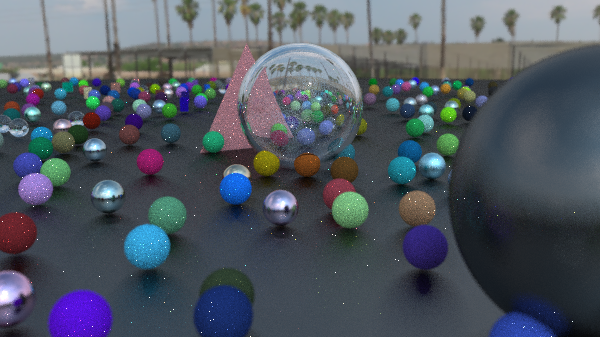
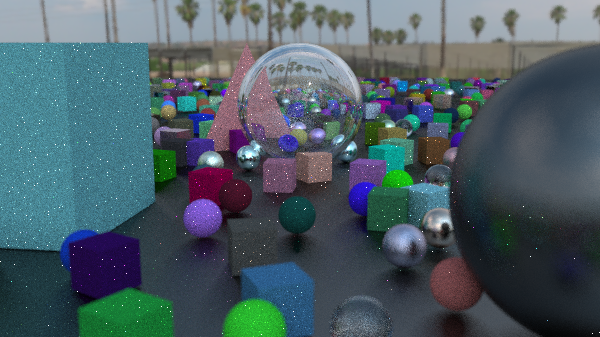
bvh_update

diff --git a/cube.hpp b/cube.hpp
@@ -6,31 +6,44 @@
 //class cube
 class cube : public hittable {
 public:
-	//constructor using min and max corners in world space (3 args)
+	//1. constructor using min and max corners in world space (3 args)
 	//converts boundaries to half extents
 	cube(const point3& min_corner_world, const point3& max_corner_world,
 		shared_ptr<material> mat)
 		: mat(mat)
+		, min_p(min_corner_world)
+		, max_p(max_corner_world)
 	{
 		//calculate half extents from min and max corners
 		half_extents = 0.5 * (max_corner_world - min_corner_world);
+		center = min_corner_world + half_extents; //calculate center position
 	}
 
-	//constructor using center position and fixed size (2 args)
+	//2. constructor using center position and fixed size (2 args)
 	//uses to define cube with constant size centered at given position(e.g., side length 2.0) and half extents = 1,1,1)
 	cube(const point3& center_pos, shared_ptr<material> mat)
 		: mat(mat)
+		, center(center_pos)
 	{
 		//set constant size (e.g., half-size 1.0 in each axis)
 		half_extents = vec3(1.0, 1.0, 1.0);
+		min_p = center_pos - half_extents; //calculate min corner
+		max_p = center_pos + half_extents; //calculate max corner
 	}
 
 	aabb bounding_box() const override {
-		return aabb(min_p, max_p);
+		double delta = 0.0001;
+		return aabb(
+			interval(min_p.x(), max_p.x()).expand(delta),
+			interval(min_p.y(), max_p.y()).expand(delta),
+			interval(min_p.z(), max_p.z()).expand(delta)
+		);
 	}
 
 	//cube
 	virtual bool hit(const ray& r, interval ray_t, hit_record& rec) const override {
+		point3 relative_origin = r.origin() - center; //translate ray origin to cube local space
+
 		double tmin = ray_t.min;
 		double tmax = ray_t.max;
 
@@ -61,7 +74,7 @@ public:
 		rec.p = r.at(rec.t);
 
 		//updated compute normal function
-		rec.normal = compute_normal(rec.p);
+		rec.normal = compute_normal(rec.p - center);
 
 		rec.mat = mat; //assign cube material
 		rec.set_face_normal(r, rec.normal);
@@ -71,6 +84,7 @@ public:
 
 private:
 	vec3 half_extents; //half the size of the cube in each dimension
+	point3 center; //center position of the cube
 	shared_ptr<material> mat;
 	point3 min_p;
 	point3 max_p;

diff --git a/aabb.hpp b/aabb.hpp
@@ -6,14 +6,17 @@ class aabb {
 public:
 	interval x, y, z;
 
-	aabb() {} //empty constructor
+	aabb() 
+		: x(interval::empty)
+		, y(interval::empty)
+		, z(interval::empty) 
+	{}
 
 	aabb(const interval& ix, const interval& iy, const interval& iz)
 		: x(ix)
 		, y(iy)
 		, z(iz)
-	{
-	}
+	{}
 
 	aabb(const point3& a, const point3& b) {
 		//create AABB from two points

diff --git a/interval.hpp b/interval.hpp
@@ -26,6 +26,12 @@ public:
 		max = std::fmax(a.max, b.max);
 	}
 
+	//expand interval by delta(both sides)
+	interval expand(double delta) const {
+		auto padding = delta / 2;
+		return interval(min - padding, max + padding);
+	}
+
 	// return size of interval
 	double size() const { return max - min; }
 	// check if interval contains x
